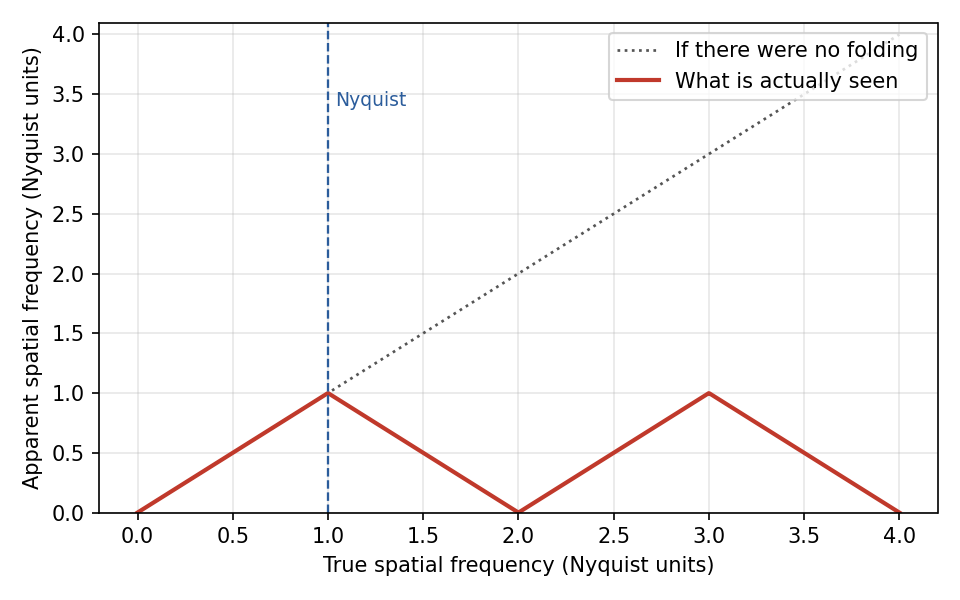
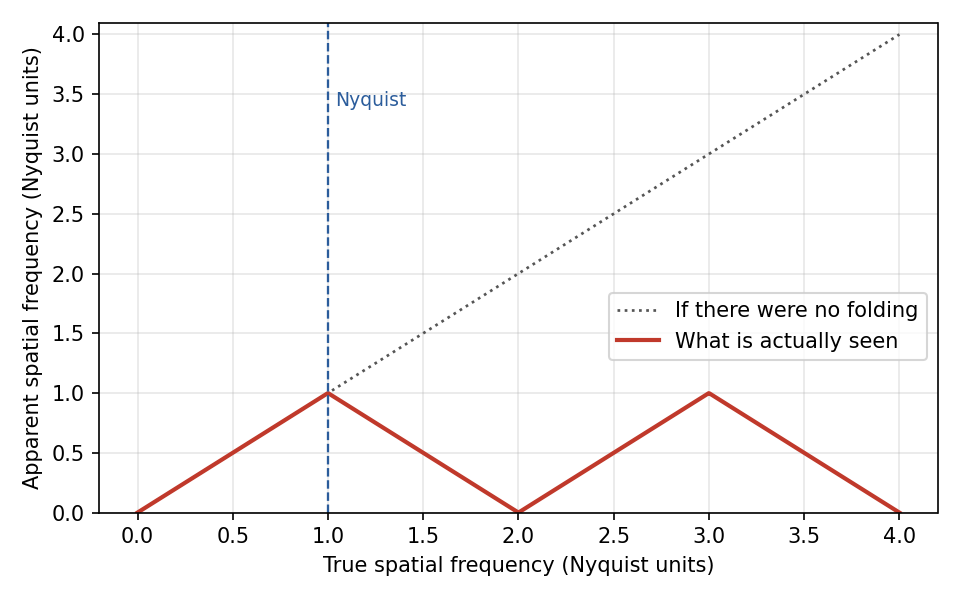
fix(post): imgproc-sampling-noise-model — 그림 다시 생성(범례·라벨 겹침, 그림 속 번호·캡션 제거)
그림을 다시 그려야 고칠 수 있던 경미 항목을 고쳤다. 데이터와 계산은 바꾸지 않았다.

근거: _references/imgproc-sampling-noise-model/audit-20261015.md (B 경미), 목록 _references/_fig-queue-20261015.md

Changed region(s): [[0.625, 0.48, 0.9688, 0.6], [0.625, 0.06, 0.9688, 0.18], [0.625, 0.06, 0.6562, 0.09]]

diff --git a/_code/imgproc-sampling-noise-model/generate_figures.py b/_code/imgproc-sampling-noise-model/generate_figures.py
@@ -318,7 +318,7 @@ def draw(labels):
     ax.set_xlabel(labels["f_true"], **F)
     ax.set_ylabel(labels["f_apparent"], **F)
     ax.set_ylim(0, 4.1)
-    ax.legend(prop=L, fontsize=9, loc="upper right")
+    ax.legend(prop=L, fontsize=9, loc="center right", bbox_to_anchor=(1.0, 0.38))
     ax.grid(alpha=0.3)
     fig.tight_layout()
     fig.savefig(os.path.join(out, "fig5-frequency-folding.png"), dpi=150)
